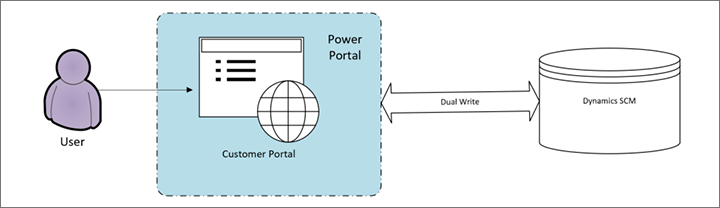
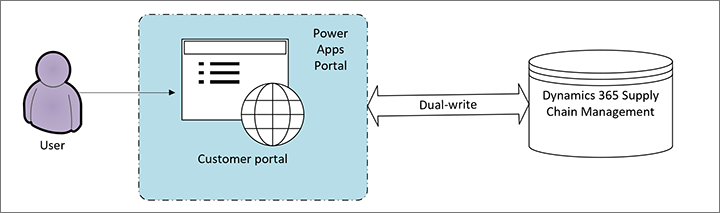
Update image

Changed region(s): [[0.0306, 0.0577, 0.9472, 0.9519], [0.275, 0.7212, 0.4278, 0.7788], [0.0611, 0.6635, 0.1222, 0.7212]]

diff --git a/articles/supply-chain/sales-marketing/customer-portal-overview.md b/articles/supply-chain/sales-marketing/customer-portal-overview.md
@@ -67,6 +67,4 @@ The Customer portal depends on entities that are synced with dual-write. Before 
 
 ![Customer portal dependencies](media/customer-portal-elements.png "Customer portal dependencies")
 
-<!-- KFM: We need to fix the branding text in this illustration. "Power Apps portals" "Dual-write" "Customer portal" and "Dynamics 365 Supply Chain Management" -->
-
 The Customer portal acts as a starting point for organizations that want to use Power Apps portals to build an externally facing website that uses data from their Supply Chain Management installation. It helps organizations connect dual-write, Supply Chain Management, and Power Apps portals.

diff --git a/articles/supply-chain/sales-marketing/customer-portal-setup.md b/articles/supply-chain/sales-marketing/customer-portal-setup.md
@@ -42,8 +42,6 @@ The Customer portal depends on Power Apps portals and dual-write, as shown in th
 
 ![Customer portal dependencies](media/customer-portal-elements.png "Customer portal dependencies")
 
-<!-- KFM: We need to fix the branding text in this illustration. "Power Apps portals" "Dual-write" "Customer portal" and "Dynamics 365 Supply Chain Management" -->
-
 Unlike other features from Supply Chain Management, the template resides in Power Apps portals. Therefore, the Customer portal is limited by the functionality and capabilities that are provided by Power Apps portal and the entities in dual-write.
 
 <a name="required-setup"></a>

diff --git a/articles/supply-chain/sales-marketing/customer-portal-customize.md b/articles/supply-chain/sales-marketing/customer-portal-customize.md
@@ -181,5 +181,3 @@ See these documents to learn more about how you can set up and customize the Cus
 - [Upgrade a portal](https://docs.microsoft.com/powerapps/maker/portals/admin/upgrade-portal)
 - [Migrate portal configuration](https://docs.microsoft.com/powerapps/maker/portals/admin/migrate-portal-configuration)
 - [Solution Lifecycle Management: Dynamics 365 for Customer Engagement apps](https://www.microsoft.com/download/details.aspx?id=57777)
-
-<!-- KFM: I copied the above links from the setup topic. Are they all also relevant here? -->
